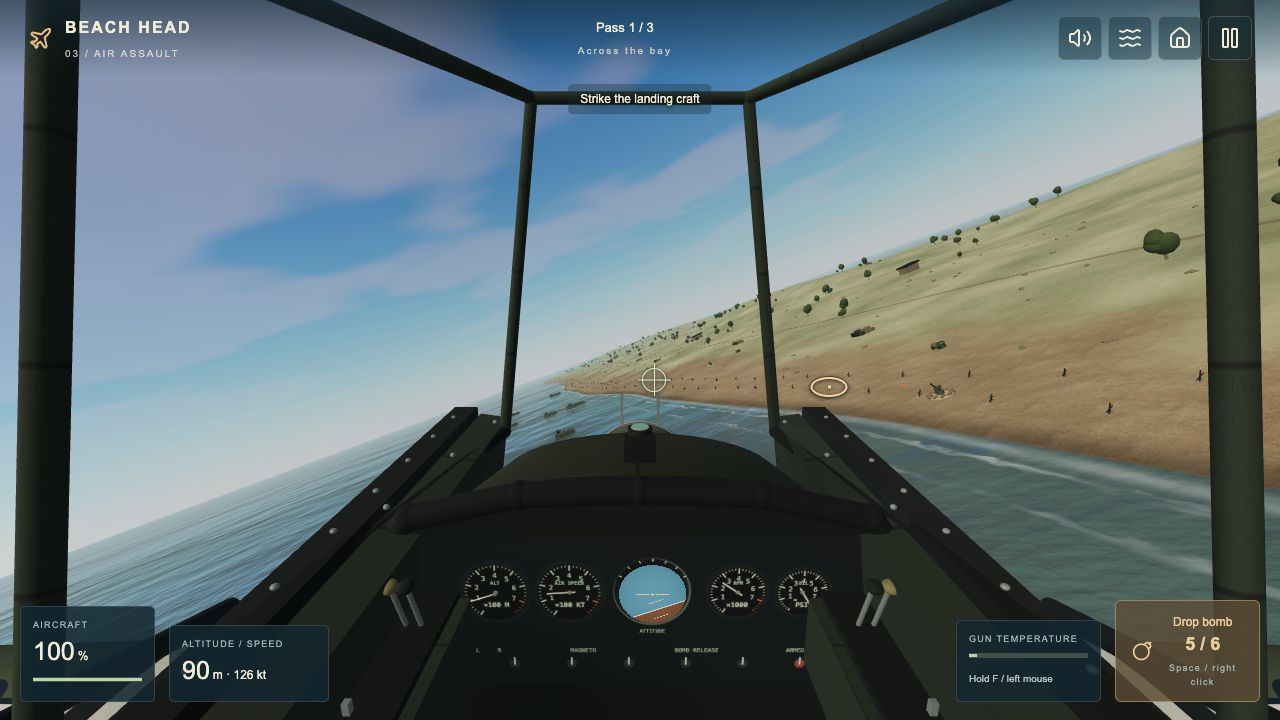
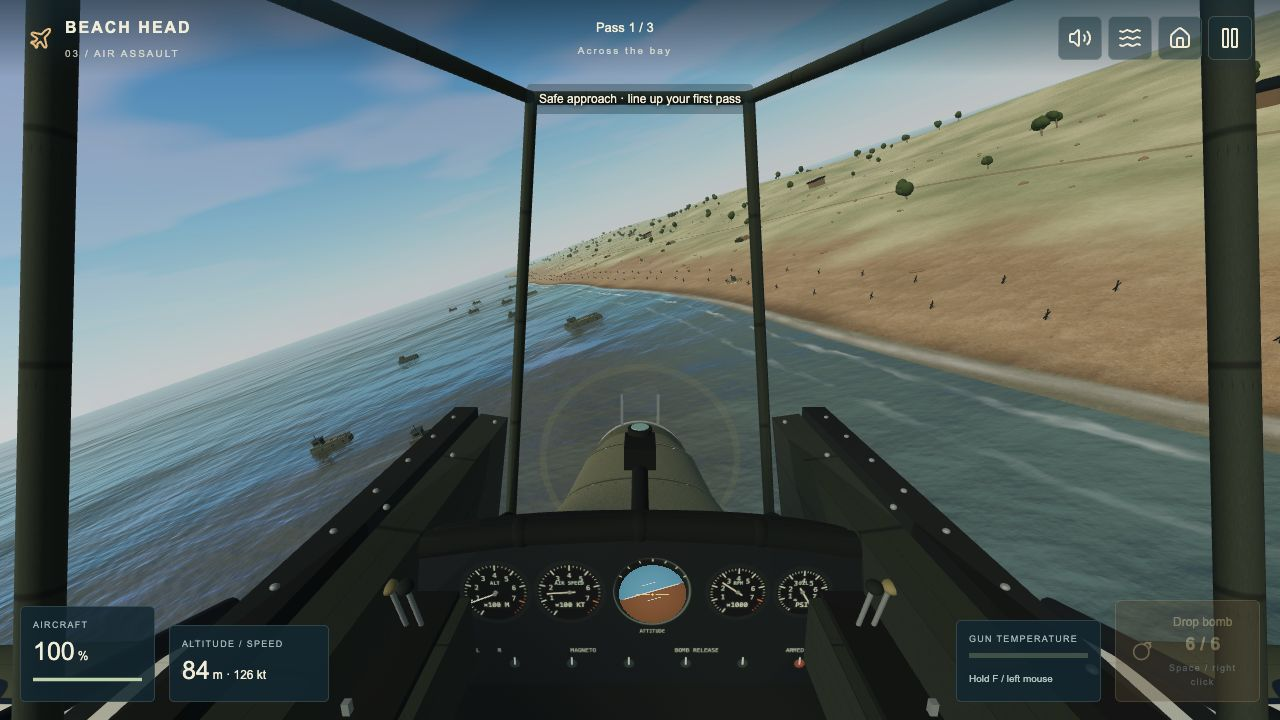
Expose aircraft nose beyond the Stage 3 windshield (#21)

diff --git a/lib/air/aircraft.ts b/lib/air/aircraft.ts
@@ -267,7 +267,7 @@ export function makeAirframe(a: AirArt) {
     a.mesh(root, geometry, glazing, [0, 0, 0], [1, 1, 1]);
   }
   // Front armored pane and angled quarter windows connect to the canopy above the pilot.
-  const lower = 2.55,
+  const lower = 1.6,
     upper = 5.65;
   brace(
     [
@@ -327,16 +327,16 @@ export function makeAirframe(a: AirArt) {
     0.075,
     trim,
   );
-  // Rounded nose skin reaches all the way back to the windshield sill.
+  // Keep the upper cowling below the pilot’s sightline; a steep rear fairing hides the engine nose.
   const hoodPositions: number[] = [],
     hoodUV: number[] = [],
     hoodIndices: number[] = [];
   const hoodSections = [
     [-5.8, 0.52, 0.82],
     [-4.5, 0.79, 1.03],
-    [-2.8, 1.6, 1.16],
-    [-0.65, 2.53, 1.39],
-    [0.8, 2.7, 1.68],
+    [-2.8, 0.95, 1.16],
+    [-0.65, 1.42, 1.39],
+    [0.8, 1.7, 1.68],
   ];
   for (let row = 0; row < hoodSections.length; row++)
     for (let j = 0; j <= 24; j++) {
@@ -361,15 +361,38 @@ export function makeAirframe(a: AirArt) {
   hoodGeometry.setAttribute('uv', new THREE.Float32BufferAttribute(hoodUV, 2));
   hoodGeometry.setIndex(hoodIndices);
   hoodGeometry.computeVertexNormals();
-  const antiGlare = a.mat('#3c452e', 0.91);
+  const antiGlare = a.mat('#828568', 0.78);
   antiGlare.map = a.paint;
   a.mesh(root, hoodGeometry, antiGlare, [0, 0, 0], [1, 1, 1]);
+  // Fine transverse seams and paired fasteners give the visible cowling scale and depth.
+  const seam = a.mat('#515842', 0.82);
+  for (const [z, top, width] of hoodSections.slice(1, 4)) {
+    const points = Array.from({ length: 13 }, (_, i) => {
+      const angle = 0.2 + (i / 12) * (Math.PI - 0.4);
+      return [
+        Math.cos(angle) * width,
+        top - (1 - Math.sin(angle)) * 0.48 + 0.008,
+        z,
+      ];
+    });
+    brace(points, 0.009, seam);
+    for (const side of [-1, 1]) {
+      const x = side * width * 0.6;
+      a.mesh(
+        root,
+        smooth,
+        metal,
+        [x, top - 0.096 + 0.015, z + 0.08],
+        [0.024, 0.01, 0.024],
+      );
+    }
+  }
   // Broad, curved bulkhead with an opaque lower panel and padded glare shield.
   const panelShape = new THREE.Shape();
   panelShape.moveTo(-1.7, -1.05);
   panelShape.lineTo(-1.7, 0.32);
-  panelShape.quadraticCurveTo(-1.5, 0.9, 0, 0.9);
-  panelShape.quadraticCurveTo(1.5, 0.9, 1.7, 0.32);
+  panelShape.quadraticCurveTo(-1.5, 0.65, 0, 0.65);
+  panelShape.quadraticCurveTo(1.5, 0.65, 1.7, 0.32);
   panelShape.lineTo(1.7, -1.05);
   panelShape.closePath();
   const panel = a.mesh(
@@ -392,11 +415,11 @@ export function makeAirframe(a: AirArt) {
   brace(
     [
       [-1.73, 2.3, 1.2],
-      [-1.45, 2.7, 1.2],
-      [-0.75, 2.86, 1.2],
-      [0, 2.89, 1.2],
-      [0.75, 2.86, 1.2],
-      [1.45, 2.7, 1.2],
+      [-1.45, 2.5, 1.2],
+      [-0.75, 2.6, 1.2],
+      [0, 2.64, 1.2],
+      [0.75, 2.6, 1.2],
+      [1.45, 2.5, 1.2],
       [1.73, 2.3, 1.2],
     ],
     0.085,
@@ -458,6 +481,14 @@ export function makeAirframe(a: AirArt) {
   );
   a.mesh(altitudeNeedle, a.sphere, metal, [0, 0, 0.004], [0.015, 0.015, 0.004]);
   // Reflector sight has a glass plate, metal clips, projector lens and supporting arm.
+  brace(
+    [
+      [0, 2.45, 1.05],
+      [0, 2.58, 0.1],
+    ],
+    0.065,
+    trim,
+  );
   a.block(root, trim, [0, 2.67, 0.1], [0.26, 0.19, 0.35]);
   a.mesh(root, a.cylinder, black, [0, 2.83, 0.04], [0.105, 0.045, 0.105]);
   const lens = a.mat('#95b5a5', 0.16);
@@ -477,7 +508,7 @@ export function makeAirframe(a: AirArt) {
   Object.assign(blur, {
     side: THREE.DoubleSide,
     transparent: true,
-    opacity: 0.07,
+    opacity: 0.12,
     depthWrite: false,
   });
   a.mesh(
@@ -491,7 +522,7 @@ export function makeAirframe(a: AirArt) {
   Object.assign(tipBlur, {
     side: THREE.DoubleSide,
     transparent: true,
-    opacity: 0.055,
+    opacity: 0.1,
     depthWrite: false,
   });
   a.mesh(

diff --git a/lib/air/pilot-view.test.ts b/lib/air/pilot-view.test.ts
@@ -79,3 +79,42 @@ void test('cockpit leaves the gun aiming line unobstructed across the flight env
       }
   art.dispose();
 });
+
+void test('pilot can see both shoulders of the engine cowling beyond the dashboard', () => {
+  const art = new AirArt(),
+    plane = makeAirframe(art),
+    f = createAircraft(),
+    camera = new THREE.PerspectiveCamera(72, 16 / 9, 0.12, 14000);
+  plane.root.position.copy(f.position);
+  plane.root.updateMatrixWorld(true);
+  placePilotCamera(camera, f, false);
+  camera.updateMatrixWorld(true);
+  for (const side of [-1, 1]) {
+    // Sample the exposed upper engine housing, leaving tolerance for its seam.
+    const cowling = new THREE.Vector3(side * 0.45, 0.94, -2.8).applyMatrix4(
+      plane.root.matrixWorld,
+    );
+    const distance = camera.position.distanceTo(cowling);
+    const ray = new THREE.Raycaster(
+      camera.position,
+      cowling.clone().sub(camera.position).normalize(),
+      0,
+      distance - 0.08,
+    );
+    const obstructions = ray.intersectObject(plane.root, true).filter((hit) => {
+      const mesh = hit.object as THREE.Mesh;
+      return !Array.isArray(mesh.material) && !mesh.material.transparent;
+    });
+    assert.equal(
+      obstructions.length,
+      0,
+      'dashboard and rear fairing must not hide the nose',
+    );
+    const projected = cowling.project(camera);
+    assert.ok(
+      Math.abs(projected.x) < 0.9 && Math.abs(projected.y) < 0.9,
+      'engine cowling remains inside the view',
+    );
+  }
+  art.dispose();
+});

diff --git a/docs/stage-3-validation.md b/docs/stage-3-validation.md
@@ -45,3 +45,7 @@ All **101 tests**, TypeScript, authored-source lint and the Pages export pass. T
 All **103 tests**, TypeScript, scoped authored-source lint and the production export pass. New camera tests verify a stable cockpit-relative view through bank/pitch/heading changes and a level reduced-motion view. Ray tests across 27 altitude/pitch/bank combinations find no opaque cockpit geometry obstructing the gun aiming line. A first browser pass found incompatible indexed/non-indexed meshes dropping part of the shell; normalized batching fixes this and assembly now fails visibly instead of silently omitting a material group.
 
 Browser checks show a solid instrument bulkhead, connected quarter windows, side consoles, a working artificial horizon and anchored banking. Mouse steering, firing and bomb release were exercised, and the README capture shows the banked view. Portrait and landscape visibility checks use desktop-host viewports; physical-phone validation remains outstanding. Previous camera descriptions are superseded by this correction.
+
+## Forward nose visibility — 2026-09-30
+
+All **104 tests**, TypeScript, scoped authored-source lint, whitespace checks and the `/BeachHead/` production export pass. A new ray test verifies that both upper cowling shoulders remain visible from the pilot seat, alongside the existing 27 aiming-clearance checks. Browser inspection confirmed the exposed nose, seams and propeller blur in desktop, 844 × 390 landscape and 390 × 844 portrait views. Banking remains anchored; mobile-layout firing raised gun heat and bomb release reduced inventory from six to five. The fresh browser tab reported no console errors. The README capture was refreshed. These viewport checks run on desktop hardware and do not replace physical-phone testing.

diff --git a/docs/air-assets.md b/docs/air-assets.md
@@ -36,3 +36,7 @@ The cockpit has an angular windshield, connected canopy rails and sidewalls, a s
 The cockpit is now a continuous tub with an opaque, curved instrument bulkhead, padded coaming, side consoles, throttle levers and front/quarter glazing joined to the surrounding canopy. The raised rails and disconnected dashboard are replaced. A wider desktop lens and aft pilot position reveal the cockpit sides and portions of the wing roots; the foreground shell and flight instruments remain present in portrait mode.
 
 `pilot-view.ts` mounts the normal camera to the aircraft attitude, so the enclosure stays fixed around the pilot and the outside horizon banks. Reduced camera motion retains the level-view option. The central attitude indicator follows pitch/bank, alongside the live altitude needle. Gun and bomb simulation, physical hardpoints, mission balance and controls are unchanged. This remains a visibility-tuned arcade cockpit, not a dimensionally accurate historical reconstruction.
+
+## Forward cowling visibility
+
+The rear hood and dashboard brow are lower, exposing the engine cowling beyond the windshield. Lighter olive paint, fine transverse seams, paired fasteners and a more visible translucent propeller disc distinguish the external nose from the dark cockpit. The reflector sight now has an explicit support from the panel. Camera mounting and weapon alignment are unchanged.
